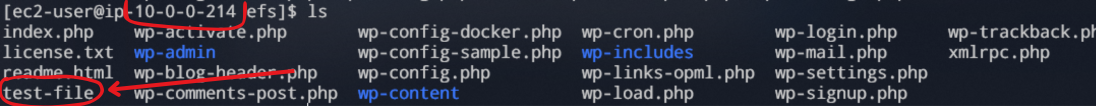
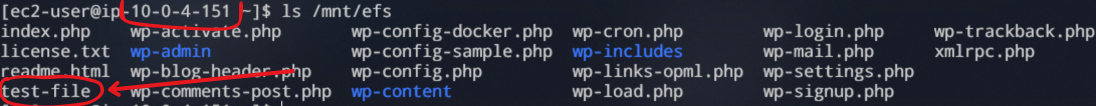
update: some adjustments

diff --git a/README.md b/README.md
@@ -39,7 +39,7 @@ Primeiramente, devem ser criadas as instâncias EC2, que partirão de um modelo 
 
 |                   	|                      	|
 |-------------------	|----------------------	|
-|        AMI        	| Amazon Linux 2       	|
+|        AMI        	| Amazon Linux 2023    	|
 | Tipo de instância 	| t2.micro             	|
 | Security group    	| ActivDockerAws-server |
 | Armazenamento     	| 1 volume(s) - 8 GiB  	|
@@ -75,12 +75,12 @@ services:
       WORDPRESS_DB_PASSWORD: Uj9b2qApzt89F8w7hL7d
       WORDPRESS_DB_NAME: activdockeraws
     volumes:
-      - ./efs:/var/www/html
+      - /mnt/efs:/var/www/html
 EOF
 
-sudo mkdir efs
+sudo mkdir -p /mnt/efs
 
-sudo mount -t nfs4 -o nfsvers=4.1,rsize=1048576,wsize=1048576,hard,timeo=600,retrans=2,noresvport fs-022330e490e708d36.efs.us-east-1.amazonaws.com:/ efs
+sudo mount -t nfs4 -o nfsvers=4.1,rsize=1048576,wsize=1048576,hard,timeo=600,retrans=2,noresvport fs-022330e490e708d36.efs.us-east-1.amazonaws.com:/ /mnt/efs
 
 docker-compose -f /home/ec2-user/compose.yml up -d
 ```
